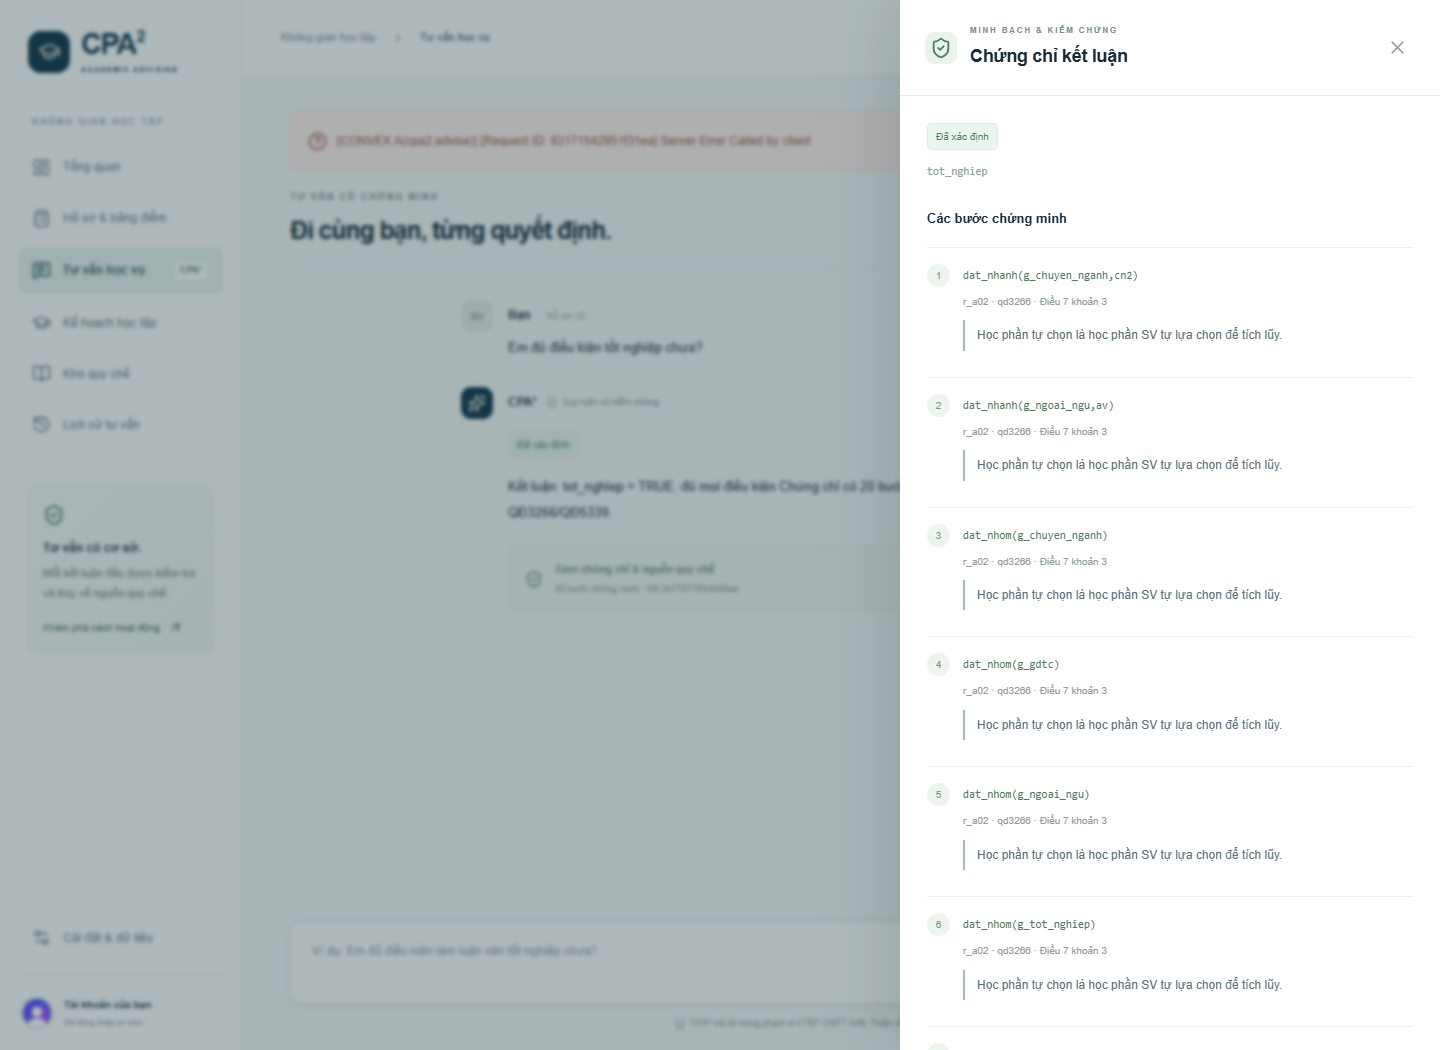
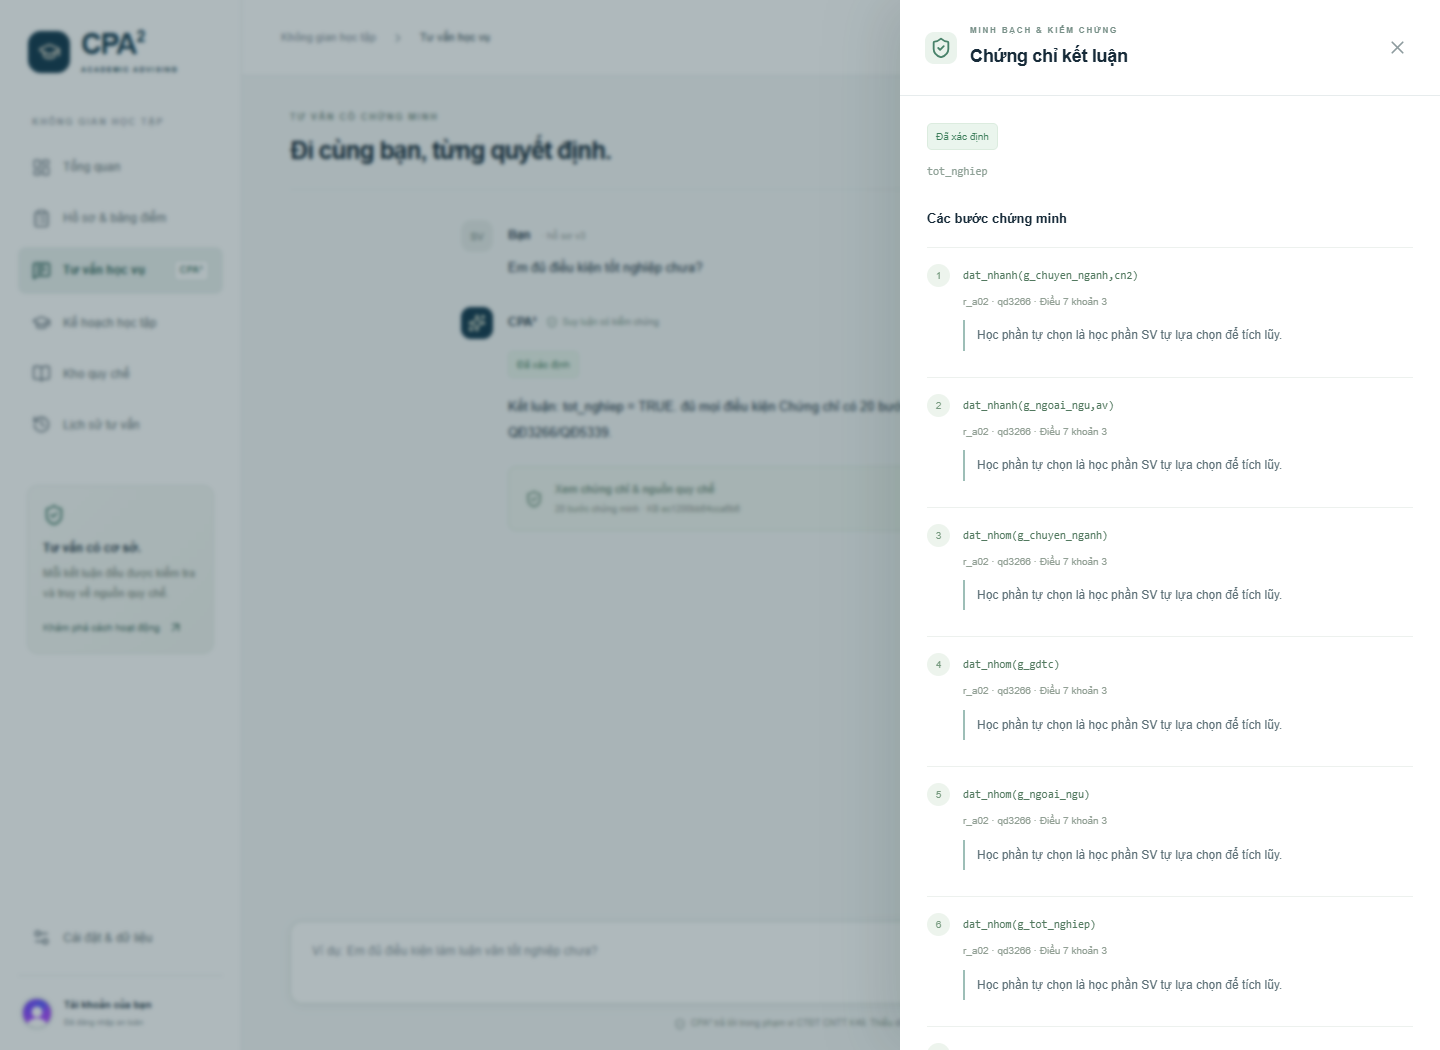
docs(validation): record live core fix and synthetic training results

Changed region(s): [[0.1875, 0.1829, 0.625, 0.4267], [0.3438, 0.4571, 0.625, 0.5486], [0.1875, 0.0914, 0.5625, 0.1524]]

diff --git a/CPA2_App/VALIDATION.md b/CPA2_App/VALIDATION.md
@@ -10,6 +10,9 @@
 - Đã huấn luyện baseline ý định Naive Bayes cục bộ: 77 train, chọn alpha trên 32 dev; đúng 10/32 (31,25%). Chưa chạy test, chưa tích hợp mô hình yếu này vào production. Không fine-tune LLM, không gọi API, không để mô hình tự kết luận học vụ. Tệp dữ liệu, manifest và trọng số ở `CPA2_KhaoSat/w20_benchmark/qreal/synthetic_survey/`.
 - API 13/13, Convex 7/7, TypeScript và production build đạt; audit web không ghi nhận lỗ hổng, OSV 29 gói Python không có advisory. Runtime đóng gói đạt, KB `ec1200bb64cca6b6`.
 - Hồi quy đầy đủ trên bản sao ổn định: **18/18 bộ đạt**; OCR đầy đủ hoàn tất trong 202,6 giây, giữ nguyên cổng đúng fact ≥99% và không kết luận sai. Log riêng từng script ở `CPA2_App/web/.vercel/research-fix-final/` (không commit). Sau đó kiểm thêm toàn bộ 4 test xử lý survey/không rò tập, đều đạt. 18/18 không có nghĩa Recall RAG đã đạt: dev vẫn 19/24 và 21/24.
+- Đã triển khai: Vercel production `dpl_2NkMmoD6fanoXHGTge7FSGhSEeKY`, mã giao diện `b5e2d48`; Render `dep-dbf2jk7b9u1s73bdd3t0`, mã container `0ca6d1f`, live. Sau lượt build đầu API còn phục vụ hash cũ; đã build lại có xóa cache và in hash KB ngay trong Docker build, rồi xác minh HTTP thực tế trả `ec1200bb64cca6b6`.
+- Nghiệm thu cloud sau bản sửa: ca 8,5 năm thiếu/null TC → UNKNOWN và `missing_facts=[qua_thoi_gian_toi_da]`; 0 → TRUE; 27 → FALSE. OCR qua Convex Storage/scheduled action → Render → bản nháp 17 dòng đạt. Trình duyệt kiểm lại đăng nhập, chứng chỉ, lịch sử sau tải lại, sửa điểm + khai báo TC=0 + lưu, tra cứu và mobile; không có lỗi JavaScript. Đã xóa dữ liệu Convex và hai tài khoản Clerk thử nghiệm, kiểm tra state rỗng.
+- Thử nghiệm bổ sung **không được phát hành**: định tuyến RAG theo quy tắc nguồn đạt dev 23/24, 24/24 nhưng test báo cáo một lần chỉ đạt 14/24, 22/24, chưa đạt 0,80/0,95. Đã loại toàn bộ thay đổi định tuyến và giữ retriever đã kiểm thử; không sửa tiếp theo câu test. Số dev cao của phương án bị loại không được dùng làm kết quả production. Thử baseline ý định embedding cục bộ trên cùng train/dev cũng thấp (7/32 dev), nên giữ baseline Naive Bayes 10/32 ở mức nghiên cứu; test survey vẫn chưa chạy.
 
 Gold, split benchmark và sáu hồ sơ gốc đã đóng băng được giữ nguyên. Các ca dương tính cần biết TC chuyển đổi dùng bản sao khai báo rõ 0 trong helper kiểm thử; không sửa gold để ép kết quả. Vì nguồn hồ sơ benchmark cũ thiếu trường này, kết quả benchmark sau bản sửa có thể từ chối nhiều hơn và phải được báo đúng theo dữ liệu gốc.
 
